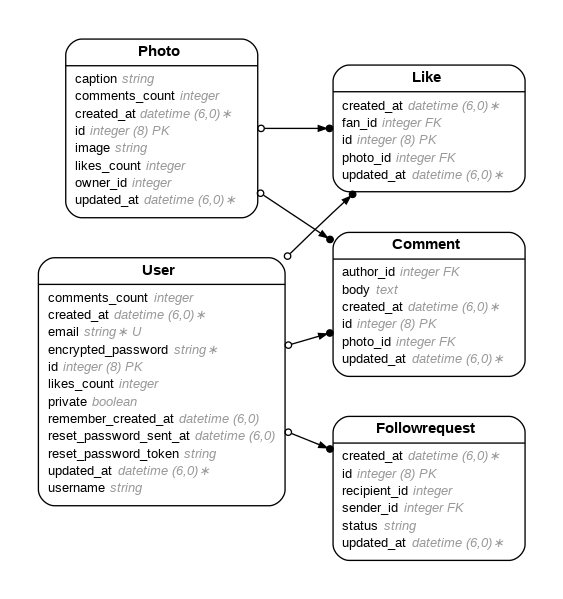
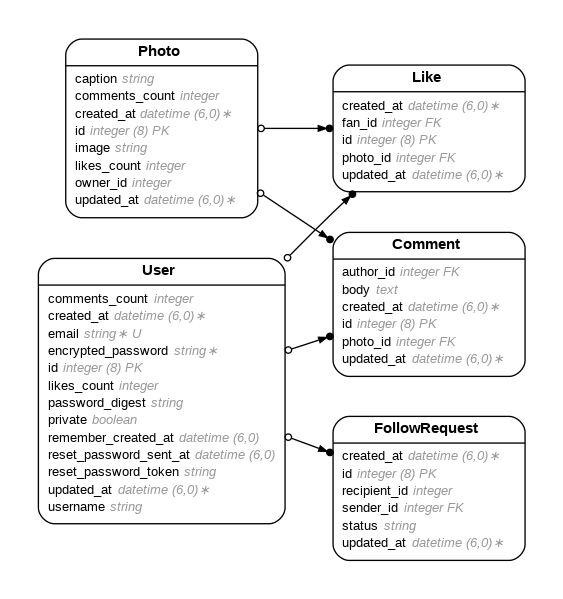
more progress

diff --git a/app/controllers/users_controller.rb b/app/controllers/users_controller.rb
@@ -1,4 +1,9 @@
 class UsersController < ApplicationController
+  def index
+    @users = User.all
+    render({ :template => "users/index" })
+  end
+  
   def new
     render({ :template => "users/sign_up" })
   end
@@ -7,26 +12,33 @@ class UsersController < ApplicationController
     user = User.new
     user.email = params.fetch("email")
     user.password = params.fetch("password")
-    user.password_confirmation = params.fetch("password_confirmation")
+    #user.password_confirmation = params.fetch("password_confirmation")
     user.username = params.fetch("username")
     user.private = params.key?("private")
     
     if user.save
-      redirect_to("/sign_in")
+      redirect_to("/users/sign_in")
     else
       render({ :template => "users/sign_up" })
     end
   end
-  
-  # Display a user's profile
-  def show
-    @user = User.where({ :id => params.fetch("id") }).at(0)
-    render({ :template => "users/show" })
+
+  def sign_in_form
+    render({ :template => "users/sign_in" })
   end
 
-  # List all users
-  def index
-    @users = User.all
-    render({ :template => "users/index" })
+  def sign_in
+    email = params.fetch("email")
+    password = params.fetch("password")
+
+    user = User.where({ :email => email }).first
+    
+    if user && user.authenticate(password)
+      session.store(:user_id, user.id)
+      redirect_to("/")
+    else
+      render({ :template => "users/sign_in" })
+    end
+    
   end
 end

diff --git a/db/schema.rb b/db/schema.rb
@@ -10,7 +10,7 @@
 #
 # It's strongly recommended that you check this file into your version control system.
 
-ActiveRecord::Schema[7.1].define(version: 2024_12_11_005329) do
+ActiveRecord::Schema[7.1].define(version: 2024_12_11_024132) do
   # These are extensions that must be enabled in order to support this database
   enable_extension "plpgsql"
 
@@ -22,7 +22,7 @@ ActiveRecord::Schema[7.1].define(version: 2024_12_11_005329) do
     t.datetime "updated_at", null: false
   end
 
-  create_table "followrequests", force: :cascade do |t|
+  create_table "follow_requests", force: :cascade do |t|
     t.integer "recipient_id"
     t.integer "sender_id"
     t.string "status"
@@ -59,6 +59,7 @@ ActiveRecord::Schema[7.1].define(version: 2024_12_11_005329) do
     t.string "username"
     t.datetime "created_at", null: false
     t.datetime "updated_at", null: false
+    t.string "password_digest"
     t.index ["email"], name: "index_users_on_email", unique: true
     t.index ["reset_password_token"], name: "index_users_on_reset_password_token", unique: true
   end

diff --git a/config/routes.rb b/config/routes.rb
@@ -1,14 +1,18 @@
 Rails.application.routes.draw do  
-  get("/sign_up", { :controller => "users", :action => "new" })
-  post("/users", { :controller => "users", :action => "create" })
 
   #homepage
 
   get("/", { :controller => "users", :action => "index" })
 
+  # Sign-up routes
+  get("/users/sign_up", { :controller => "users", :action => "new" })
+  post("/users", { :controller => "users", :action => "create" })
+  
   # Sign-in routes
-  get("/sign_in", { :controller => "sessions", :action => "new" })
-  post("/sessions", { :controller => "sessions", :action => "create" })
+  get("/users/sign_in", { :controller => "users", :action => "sign_in_form" })
+  post("/users/sign_in", { :controller => "users", :action => "sign_in" })
+
+  get("/users/sign_out", { :controller => "users", :action => "sign_out" })
   
   # Forgot password routes
   get("/forgot_password", { :controller => "passwords", :action => "new" })

diff --git a/app/models/user.rb b/app/models/user.rb
@@ -7,6 +7,7 @@
 #  email                  :string           default(""), not null
 #  encrypted_password     :string           default(""), not null
 #  likes_count            :integer
+#  password_digest        :string
 #  private                :boolean
 #  remember_created_at    :datetime
 #  reset_password_sent_at :datetime
@@ -21,6 +22,7 @@
 #  index_users_on_reset_password_token  (reset_password_token) UNIQUE
 #
 class User < ApplicationRecord
+  #has_secure_password
   # Include default devise modules. Others available are:
   # :confirmable, :lockable, :timeoutable, :trackable and :omniauthable
   devise :database_authenticatable, :registerable,

diff --git a/db/migrate/20241211003216_create_follow_requests.rb b/db/migrate/20241211003216_create_follow_requests.rb
@@ -1,0 +1,10 @@
+class CreateFollowRequests < ActiveRecord::Migration[7.1]
+  def change
+    create_table :follow_requests do |t|
+      t.integer :recipient_id
+      t.integer :sender_id
+      t.boolean :accepted, default: false
+      t.timestamps
+    end
+  end
+end

diff --git a/app/models/follow_request.rb b/app/models/follow_request.rb
@@ -1,6 +1,6 @@
 # == Schema Information
 #
-# Table name: followrequests
+# Table name: follow_requests
 #
 #  id           :bigint           not null, primary key
 #  status       :string

diff --git a/db/migrate/20241211024132_rename_followrequests_to_follow_requests.rb b/db/migrate/20241211024132_rename_followrequests_to_follow_requests.rb
@@ -1,0 +1,5 @@
+class RenameFollowrequestsToFollowRequests < ActiveRecord::Migration[7.1]
+  def change
+    rename_table :followrequests, :follow_requests
+  end
+end

diff --git a/db/migrate/20241211021331_add_password_digest_to_users.rb b/db/migrate/20241211021331_add_password_digest_to_users.rb
@@ -1,0 +1,5 @@
+class AddPasswordDigestToUsers < ActiveRecord::Migration[7.1]
+  def change
+    add_column :users, :password_digest, :string
+  end
+end
